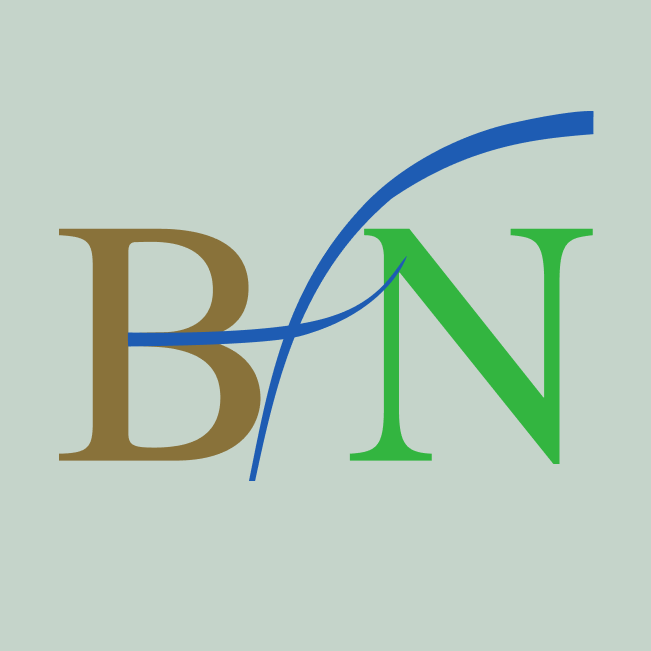
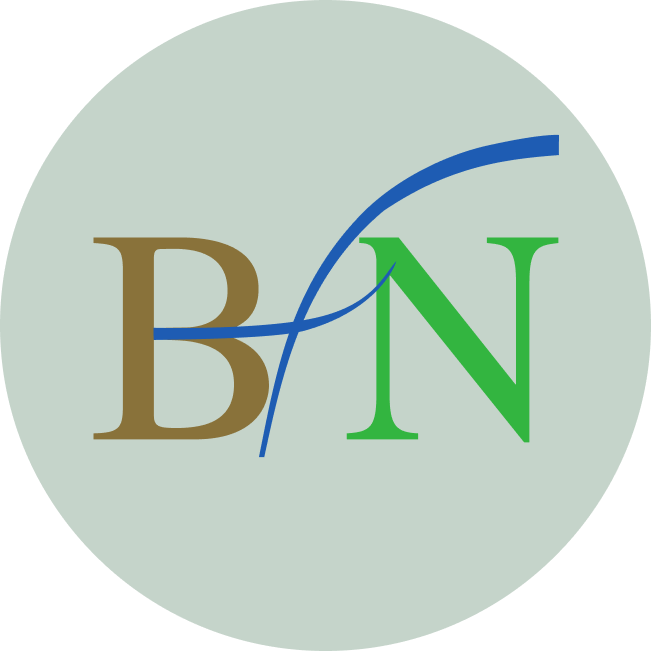
Switch circle images

diff --git a/pages/reading/books/index.js b/pages/reading/books/index.js
@@ -113,7 +113,7 @@ const Ul = styled(motion.ul)`
 			justify-content: center;
 			align-items: center;
 			transition: 0.3s ease;
-			filter: brightness(50%);
+			filter: brightness(80%);
 
 			&:hover {
 				filter: brightness(100%);
@@ -146,7 +146,11 @@ const BookItem = ({ book }) => {
 		<Link href={`books/${book.slug}`}>
 			<motion.li variants={bookitem} onClick={() => toast.dismiss()}>
 				<div>
-					<motion.img layoutId={book.slug} src={book.image} />
+					<motion.img
+						layoutId={book.slug}
+						src={book.image}
+						whileHover={{ scale: 0.9 }}
+					/>
 				</div>
 			</motion.li>
 		</Link>

diff --git a/components/Navbar.js b/components/Navbar.js
@@ -77,10 +77,10 @@ const Active = styled(motion.div)`
 const Navbar = () => {
 	return (
 		<Ul>
-			<NavItem text='Me' link='/'></NavItem>
-			<NavItem text='CoinIx' link='/coinix'></NavItem>
-			<NavItem text='Thesis' link='/thesis' />
-			<NavItem text='Reading' link='/reading/books' linkAlt='/reading/crypto' />
+			<NavItem text='about' link='/'></NavItem>
+			<NavItem text='coinIx' link='/coinix'></NavItem>
+			<NavItem text='thesis' link='/thesis' />
+			<NavItem text='reading' link='/reading/books' linkAlt='/reading/crypto' />
 		</Ul>
 	);
 };

diff --git a/components/CircleAnimation.js b/components/CircleAnimation.js
@@ -226,11 +226,11 @@ const CircleAnimation = () => {
 						</div>
 
 						<div>
-							<img src='icon-thesis.svg' alt='' />
+							<img src='icon-bitcoin.svg' alt='' />
 						</div>
 
 						<div>
-							<img src='image-bnf.png' alt='' />
+							<img src='icon-bnf.png' alt='' />
 						</div>
 					</StyledCircle>
 				</CircleContainer>

diff --git a/pages/index.js b/pages/index.js
@@ -14,7 +14,7 @@ const Home = () => {
 					business development Currently exploring the world of
 				</>
 			}
-			textButton='Hit Me Up'
+			textButton='Get To Know Me'
 			external='https://www.linkedin.com/in/nikolas-schoneweg-bb12b8166/'
 		>
 			<CircleAnimation />

diff --git a/components/Header.js b/components/Header.js
@@ -33,11 +33,11 @@ const StyledHeader = styled.nav`
 		}
 	}
 	@media ${Breakpoint.xl} {
-		height: 12rem;
+		height: 16rem;
 		margin-bottom: 6rem;
 	}
 	@media ${Breakpoint.xxl} {
-		height: 24rem;
+		height: 22rem;
 		margin-bottom: 6rem;
 	}
 `;
